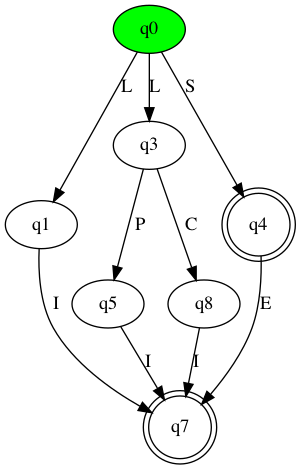
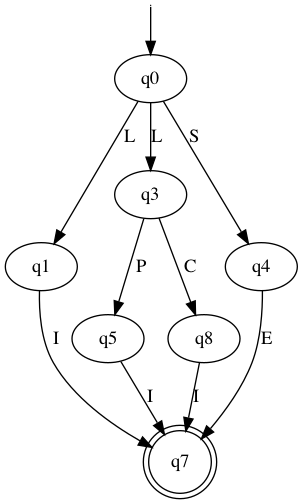
draw fixes and sys argv

diff --git a/main.py b/main.py
@@ -2,9 +2,11 @@
 # * handle "empty symbol" - Tasca
 # * update and improve git docs - Panho
 
+import sys
 import copy
 import networkx as nx
 from networkx.algorithms.assortativity import neighbor_degree
+from networkx.classes import graph
 
 
 class automata:
@@ -106,38 +108,40 @@ def wordProcessing(rfile, d_automata, input):
     return False
 
 
-rfile = readFile("automato.txt")
+file = sys.argv[1]
+word = sys.argv[2]
+rfile = readFile(file)
 nd_automata = nx.MultiDiGraph()
 d_automata = nx.MultiDiGraph()
 
 nd2d_converter(rfile, nd_automata)
-print(wordProcessing(rfile, d_automata, "LI"))
+print(wordProcessing(rfile, d_automata, word))
 
-# old_names = list(d_automata.nodes())
-
-# name_map = dict.fromkeys(old_names)
 mapping = dict(zip(d_automata.nodes(), "pqrstuvwxyzabcdefghijklmno"))
-d_automata = nx.relabel_nodes(d_automata, mapping)
 
+d_automata = nx.relabel_nodes(d_automata, mapping)
 final = list(filter(lambda x: x[1]['final'] ==
              True, nd_automata.nodes(data=True)))
 initial = list(filter(lambda x: x[1]['initial'] ==
                       True, nd_automata.nodes(data=True)))[0][0]
-nd_automata.nodes[initial]['style'] = 'filled'
-nd_automata.nodes[initial]['fillcolor'] = 'green'
+initial_arrow = nd_automata.add_node(
+    ".", fillcolor="white", shape="point", fixedsize=False, width=0, label="", size=1)
+nd_automata.add_edge(".", initial)
+
 for f in final:
     nd_automata.nodes[f[0]]['shape'] = 'doublecircle'
 A = nx.nx_agraph.to_agraph(nd_automata)
 A.layout(prog="dot")
 A.draw("automatons/nd_automata.png")
 
-# print(d_automata.nodes(data=True))
 final = list(filter(lambda x: x[1]['final'] ==
              True, d_automata.nodes(data=True)))
 initial = list(filter(lambda x: x[1]['initial'] ==
                       True, d_automata.nodes(data=True)))[0][0]
-d_automata.nodes[initial]['style'] = 'filled'
-d_automata.nodes[initial]['fillcolor'] = 'green'
+initial_arrow = d_automata.add_node(
+    ".", fillcolor="white", shape="point", fixedsize=False, width=0, label="", size=1)
+d_automata.add_edge(".", initial)
+
 for f in final:
     d_automata.nodes[f[0]]['shape'] = 'doublecircle'
 B = nx.nx_agraph.to_agraph(d_automata)
